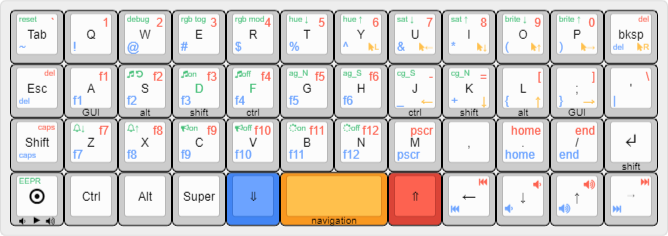
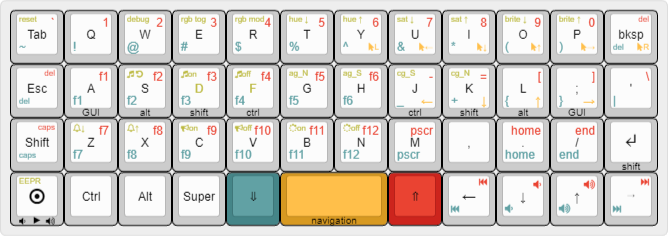
fix typos and formating on modded kbd post

diff --git a/_posts/2022-07-29-modding-my-friends-keyboard.md b/_posts/2022-07-29-modding-my-friends-keyboard.md
@@ -23,7 +23,7 @@ We start by unscrewing all the screws on the switch plate, which is what's affix
 <figure class="half">
     <a href="/assets/images/posts/2022-07-23-modding-my-friends-keyboard/unscrewed.jpg"><img src="/assets/images/posts/2022-07-23-modding-my-friends-keyboard/unscrewed.jpg"></a>
     <a href="/assets/images/posts/2022-07-23-modding-my-friends-keyboard/jst-cable.jpg"><img src="/assets/images/posts/2022-07-23-modding-my-friends-keyboard/jst-cable.jpg"></a>
-    <figcaption>Yum, stock Gateron browns :woozy_face:. There's a 1800 mAh 3.7 V battery though! That's a decent amount of juice. It's connected to the PCB via a 2-pin JST cable. Gotta unplug that sucker.</figcaption>
+    <figcaption>Yum, stock Gateron browns :unamused:. There's a 1800 mAh 3.7 V battery though! That's a decent amount of juice. It's connected to the PCB via a 2-pin JST cable. Gotta unplug that sucker.</figcaption>
 </figure>
 
 We now need to remove the switches from the PCB. Technically, there are these small 'hot-swap sockets' installed onto the PCB (which were not Kailh styles, but were rather low quality Mill-Max style clones), and they had a kind of death grip on the Gateron brown switches. I think these sockets are awful, and I made an executive call to just destroy them, and turn the board into a dependable solder-only board :smile:. 
@@ -75,7 +75,7 @@ I wound up picking the [JWK Jwick Linear Reds (62 g)](https://divinikey.com/prod
 
 {% include figure image_path="/assets/images/posts/2022-07-23-modding-my-friends-keyboard/red-jwicks-stock.webp" alt="" caption="**JWK Jwick linear reds**: 62 g springs, polycarbonate top housing, nylon PA66 bottom housing, and POM stems."%}
 
-I realized after the switches came in, however, that the PCB accepted only 3-pin switches and not 5-pin switches (the term 'pin' here is kind of silly, because three of the 'pins' are just plastic protorusions that help secure the switch, but everyone in keyboard land just calls them 'pins'). So I had to cut the two plastic legs off each Jwick, so that they effectively became 3-pin switches. The switches still weren't fitting into the PCB though, and I realized that not only were the keyboard's original Gateron Browns 3-pins, but they also possessed a large cavity at the back of the switch, so that the PCB's RGB lights could shine behind each alpha key. The Jwiks did not have such a cavity, however, and so they refused to sit flush against the PCB, while the LEDs were still there. 
+I realized after the switches came in, however, that the PCB accepted only 3-pin switches and not 5-pin switches (the term 'pin' here is kind of silly, because three of the 'pins' are just plastic protrusions that help secure the switch, but everyone in keyboard land just calls them 'pins'). So I had to cut the two plastic legs off each Jwick, so that they effectively became 3-pin switches. The switches still weren't fitting into the PCB though, and I realized that not only were the keyboard's original Gateron Browns 3-pins, but they also possessed a large cavity at the back of the switch, so that the PCB's RGB lights could shine behind each alpha key. The Jwiks did not have such a cavity, however, and so they refused to sit flush against the PCB, while the LEDs were still there. 
 
 {% include figure image_path="/assets/images/posts/2022-07-23-modding-my-friends-keyboard/i-hate-this-pcb.jpg" alt="" caption="This PCB seems to have a lot of features that express its hatred for decent keyboard switches. It has tacky RGB LEDs, and is misisng 5-pin switch support, both of which prevent the new switches from sitting flush against the PCB."%}
 
@@ -101,13 +101,13 @@ Then, I put on the keycaps. It's almost impossible to mess this part up. I'm usi
 
 {% include figure image_path="/assets/images/posts/2022-07-23-modding-my-friends-keyboard/keycaps.jpg" alt="" caption="All the keycaps are in place! I like this colour scheme a lot."%}
 
-With the switches and keycaps installed, I tried a few key presses, just to approximate for the typing feel (not so much the typing sound though, because I found that a representative acoustic test requires the keyboard to be mounted to its case). I was pretty happy with all the keys, except for the spacebar. It just felt kind of weak, given the lighter switch, even though the plastic of the keycaps were also pretty light--but I guess the spacebar is just a really big key. I swapped out the switch for a heavier Cherry MX black. 
+With the switches and keycaps installed, I tried a few key presses, just to approximate for the typing feel (not so much the typing sound though, because I found that a representative acoustic test requires the keyboard to be mounted to its case). I was pretty happy with all the keys, except for the spacebar. It just felt kind of weak, given the lighter switch, even though the plastic of the keycaps were also pretty light---but I guess the spacebar is just a really big key. I swapped out the switch for a heavier Cherry MX Black. 
 
 {% include figure image_path="/assets/images/posts/2022-07-23-modding-my-friends-keyboard/spacebar-mx-black.jpg" alt="" caption="The right switch for the job."%}
 
 ## Undo Mistakes
 
-It turns out that when I was removing the cheap 'hot-swap' switch sockets during the [disassembly](#disassembly) process, I also removed the PCB's copper tracing along certain switch footprints on the PCB. I shouldn't have been too surprised about this wrinkle, given the general quality of the PCB, but I felt like it still could have been avoided. I took me more time than I'd like to admit to figure out the [keyboard matrix circuit](https://en.wikipedia.org/wiki/Keyboard_matrix_circuit) on this PCB, but I got it [eventually](keyboardtester.com/tester.html), and I used some thin wires to re-establish the lost connections.
+It turns out that when I was removing the cheap 'hot-swap' switch sockets during the [disassembly](#disassembly) process, I also removed the PCB's copper tracing along certain switch footprints on the PCB. I shouldn't have been too surprised about this wrinkle, given the general quality of the PCB, but I felt like it still could have been avoided. I took me more time than I'd like to admit to figure out the [keyboard matrix circuit](https://en.wikipedia.org/wiki/Keyboard_matrix_circuit) on this PCB, but I got it [eventually](https://www.keyboardtester.com/tester.html), and I used some thin wires to re-establish the lost connections.
 
 {% include figure image_path="/assets/images/posts/2022-07-23-modding-my-friends-keyboard/my-mistakes.jpg" alt="" caption="**My repairs**. I used six pieces of 30 AWG wire to reconnect the traces that I broke off with my somewhat aggressive desoldering."%}
 
@@ -123,11 +123,11 @@ The way a keyboard is mounted is critical to its typing feel and sound. I think 
 
 {% include video id="zt-WsH7Z9c8" provider="youtube" %}
 
-I think I'm going to take the same approach as the video, and saw off the original plastic standoff mounts, so that they no longer provide any mounting contacts, and all contacts are done via the gasket instead. There are a ton of integrated stand-offs on this keyboard case. I cut _all_ of them off. I just used some flush cutters to get rid of the stand-off. 
+I think I'm going to take the same approach as the video, and saw off the original plastic standoff mounts, so that they no longer provide any mounting contacts, and all contacts are done via the gasket instead. There are a ton of integrated stand-offs on this keyboard case. I cut off _all_ of them. I used some flush cutters to get rid of the stand-offs. 
 
 {% include figure image_path="/assets/images/posts/2022-07-23-modding-my-friends-keyboard/some-cut-standoffs.jpg" alt="" caption="I started off by snipping just a few of the middle standoffs. The gasket-mount effect just wasn't there though, for as long as the PCB made hard contacts against the plastic . . ."%}
 
-{% include figure image_path="/assets/images/posts/2022-07-23-modding-my-friends-keyboard/all-standoffs-cut.jpg" alt="" caption="I cut off every plastic standoff. I also wound up cutting the plastic supports on the edges, after I took this photo."%}
+{% include figure image_path="/assets/images/posts/2022-07-23-modding-my-friends-keyboard/all-standoffs-cut.jpg" alt="" caption="In the end, I cut off every plastic standoff. I also wound up cutting the plastic supports on the edges, after I took this photo."%}
 
 In the above Keybored video, the PCB had a daughterboard for the USB port, which is expected of most gasket-mounted keyboards. The logic to having daughterboards is that if the PCB is going to have some pliance for that soft typing feel, you don't want the USB port cut-out on the case to prevent the PCB's vertical flexibility. Without a daughterboard for the USB port, the case's USB cutout would be on the main PCB, and it would be making a hard contact with the USB port, which would inhibit any vertical give. So the favoured solution is to separate the USB port onto a daughterboard. 
 
@@ -142,7 +142,7 @@ The PCB I'm working with isn't very compatible with a daughterboard, so I opted 
 
 I then ordered the secret sauce: an o-ring gasket. I'm using the [same o-ring gasket](https://www.theoringstore.com/store/index.php?main_page=product_info&products_id=54816) as the one for the original Baknekeko 60. I wrapped the o-ring around the PCB and switch plate, as is standard practice. 
 
-{% include figure image_path="/assets/images/posts/2022-07-23-modding-my-friends-keyboard/o-ring.jpg" alt="" caption="The recommended o-ring for Bakeneko60 installed on the modded keyboard. The o-ring was not as stretchy as I thought it'd be. Or at least, it's not nearly as stretchy as the o-ring I used for my [Planckeneko](https://github.com/hanhanhan-kim/kbd-cases/tree/main/planckeneko) project, even though both o-rings are rated at the same hardness. Hmmm."%}
+{% include figure image_path="/assets/images/posts/2022-07-23-modding-my-friends-keyboard/o-ring.jpg" alt="" caption="**The recommended o-ring for Bakeneko60 installed on the modded keyboard.** The o-ring was not as stretchy as I thought it'd be. Or at least, it's not nearly as stretchy as the o-ring I used for my [Planckeneko](https://github.com/hanhanhan-kim/kbd-cases/tree/main/planckeneko) project, even though both o-rings are rated at the same hardness. Hmmm."%}
 
 I found that the o-ring was squeezing out some of the sticky tape that I put on the underside of the switch plate. So I removed the sticky tape strips that were on the switch plate edges. 
 
@@ -150,7 +150,7 @@ I found that the o-ring was squeezing out some of the sticky tape that I put on 
 
 ## Tape Mod
 
-If not using a semi-flex PCB with lots of flex cutouts, I think it's usually a good idea to do the popular 'tape mod', and tape the back of the PCB, preferably with the 3M 'blue tape'. I used 3 layers, and I made sure to leave space for the battery power switch and the battery JST socket. 
+If not using a semi-flex PCB with lots of flex cutouts, I think it's usually a good idea to do the popular '[tape mod](https://www.youtube.com/watch?v=g7-syoxeIBQ)', and tape the back of the PCB, preferably with the 3M 'blue tape'. I used 3 layers, and I made sure to leave space for the battery power switch and the battery JST socket. 
 
 ![](/assets/images/posts/2022-07-23-modding-my-friends-keyboard/tape-mod.jpg)
 

diff --git a/_drafts/my-keyboards.md b/_drafts/my-keyboards.md
@@ -8,11 +8,11 @@ I own a lot of 'weird' keyboards. One could argue that it's my strange addiction
 
 __*Note about keymap legending:*__ I make all the graphical representations of my keymaps on [Keyboard Layout Editor](http://www.keyboard-layout-editor.com/#/) (KLE).  In general, I use the following encoding:
 - Black characters are _base_ layer keys.
-- <span style="color:#4285F4">Blue (#4285F4)</span> characters are _lower_ layer keys.
-- <span style="color:#DB4437">Red (#DB4437)</span> characters are _raise_ layer keys.
-- <span style="color:#0F9D58">Green (#0F9D58)</span> characters are _adjust_ layer keys (i.e. _lower_ + _raise_), and often encode utilities. 
-- <span style="color:#f99820">Orange (#f99820)</span> characters are _navigation_ layer keys
-- <span style="color:#A020F0">Purple (#A020F0)</span> characters are _media_ layer keys, if media keys do not fit on some other layer, e.g. for the Corne keyboard.
+- <span style="color:#458588">Blue (#458588)</span> characters are _lower_ layer keys.
+- <span style="color:#cc241d">Red (#cc241d)</span> characters are _raise_ layer keys.
+- <span style="color:#98971a">Green (#98971a)</span> characters are _adjust_ layer keys (i.e. _lower_ + _raise_), and often encode utilities. 
+- <span style="color:#d79921">Orange (#d79921)</span> characters are _navigation_ layer keys
+- <span style="color:#b16286">Purple (#b16286)</span> characters are _media_ layer keys, if media keys do not fit on some other layer, e.g. for the Corne keyboard.
 - Characters written on the front edge of the keycaps are keys that are executed only upon holding down the keypress, such as [homerow mods](https://precondition.github.io/home-row-mods). 
 
 For those who are curious about layers, ortholinearity, and homerow mods, I might write a brief blog post about the topics later. 

diff --git a/_posts/2022-07-25-some-ubuntu-customizations.md b/_posts/2022-07-25-some-ubuntu-customizations.md
@@ -6,7 +6,7 @@ header:
     overlay_image: /assets/images/posts/2022-07-25-some-ubuntu-customizations/stock-photo.jpg
 tags: 
     - Tracking
-excerpt: "This post keeps track of some running customizations I like to use on Ubuntu."
+excerpt: "A running record of some customizations I like to use on Ubuntu."
 ---
 
 Some quick and useful customizations I recommend for Ubuntu:
